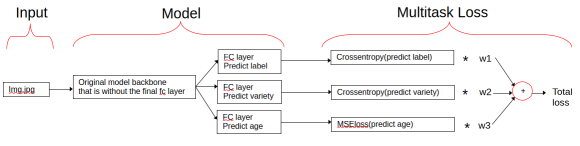
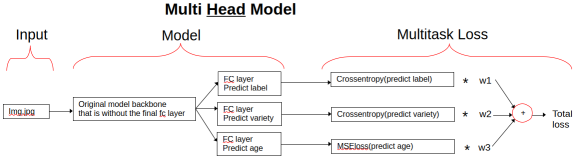
lecture

diff --git a/navbar/Lectures.html b/navbar/Lectures.html
@@ -280,14 +280,20 @@
                 <img src="https://colab.research.google.com/assets/colab-badge.svg" alt="Open In Colab" style="vertical-align:middle;"/></a> First fine tuning example with typical pytorch workflow using Kaggle dataset.  <br>
 
                 <strong><a href="https://github.com/CNUClasses/471_code/blob/master/week6/paddy_explore_dataset.ipynb">Explore dataset to see if metadata may have predictive use</a> </strong><a target="_blank" href="https://colab.research.google.com/github/CNUClasses/471_code/blob/master/week6/paddy_explore_dataset.ipynb">
-                <img src="https://colab.research.google.com/assets/colab-badge.svg" alt="Open In Colab" style="vertical-align:middle;"/></a>You can ballpark usability of data by checking to see if its in any way correlated with the target, if so it is predictive.<br>
+                <img src="https://colab.research.google.com/assets/colab-badge.svg" alt="Open In Colab" style="vertical-align:middle;"/></a>You can ballpark usability of data by checking to see if its in any way correlated with the target, if so it is predictive.<br><br>
 
-                <img src="https://raw.githubusercontent.com/CNUClasses/CPSC471/master/content/lectures/week6/multihead_model.png" alt="multiheadmodel" style="max-width:500px; display:block; margin:10px 0;"/><br
-                <strong><a href="https://github.com/CNUClasses/471_code/blob/master/week6/kaggle_paddy_timm_multihead.ipynb">Classify rice disease based on image and metadata MULTIHEAD</a> </strong><a target="_blank" href="https://colab.research.google.com/github/CNUClasses/471_code/blob/master/week6/kaggle_paddy_timm_multihead.ipynb">
-                <img src="https://colab.research.google.com/assets/colab-badge.svg" alt="Open In Colab" style="vertical-align:middle;"/></a>Custom Model, Dataset and Loss function.  Uses image as well as metadata for training<br>
+                <!-- <img src="https://raw.githubusercontent.com/CNUClasses/CPSC471/master/content/lectures/week6/multihead_model.png" alt="multiheadmodel" style="max-width:500px; display:block; margin:10px 0;"/> -->
+                <!-- <strong><a href="https://github.com/CNUClasses/471_code/blob/master/week6/kaggle_paddy_timm_multihead.ipynb">Classify rice disease based on image and metadata MULTIHEAD</a> </strong> -->
+                <a href="https://github.com/CNUClasses/471_code/blob/master/week6/kaggle_paddy_timm_multihead.ipynb"><img src="https://raw.githubusercontent.com/CNUClasses/CPSC471/master/content/lectures/week6/multihead_model.png" alt="multiheadmodel" style="max-width:500px; display:block; margin:10px 0;"/>
+                <a target="_blank" href="https://colab.research.google.com/github/CNUClasses/471_code/blob/master/week6/kaggle_paddy_timm_multihead.ipynb">
+                <img src="https://colab.research.google.com/assets/colab-badge.svg" alt="Open In Colab" style="vertical-align:middle;"/></a>Custom Model, Dataset and Loss function.  Uses image as well as metadata for training<br><br><br>
 
-                <img src="https://raw.githubusercontent.com/CNUClasses/CPSC471/master/content/lectures/week6/multiinput_model.png" alt="multiheadmodel" style="max-width:500px; display:block; margin:10px 0;"/><br
-               <strong><a href="https://github.com/CNUClasses/471_code/blob/master/week6/kaggle_paddy_timm_multiinput.ipynb">Classify rice disease based on image and metadata MULTIINPUT</a> </strong><a target="_blank" href="https://colab.research.google.com/github/CNUClasses/471_code/blob/master/week6/kaggle_paddy_timm_multiinput.ipynb">
+
+                <!-- <img src="https://raw.githubusercontent.com/CNUClasses/CPSC471/master/content/lectures/week6/multiinput_model.png" alt="multiinputmodel" style="max-width:500px; display:block; margin:10px 0;"/><br>
+               <strong><a href="https://github.com/CNUClasses/471_code/blob/master/week6/kaggle_paddy_timm_multiinput.ipynb">Classify rice disease based on image and metadata MULTIINPUT</a> </strong><a target="_blank" href="https://colab.research.google.com/github/CNUClasses/471_code/blob/master/week6/kaggle_paddy_timm_multiinput.ipynb"> -->              
+
+               <a href="https://github.com/CNUClasses/471_code/blob/master/week6/kaggle_paddy_timm_multiinput.ipynb"><img src="https://raw.githubusercontent.com/CNUClasses/CPSC471/master/content/lectures/week6/multiinput_model.png" alt="multiinputmodel" style="max-width:500px; display:block; margin:10px 0;"/></a>
+               <a target="_blank" href="https://colab.research.google.com/github/CNUClasses/471_code/blob/master/week6/kaggle_paddy_timm_multiinput.ipynb">
                 <img src="https://colab.research.google.com/assets/colab-badge.svg" alt="Open In Colab" style="vertical-align:middle;"/></a>Custom Model, Dataset and Loss function.  Uses image as well as metadata for training<br>
 
 
